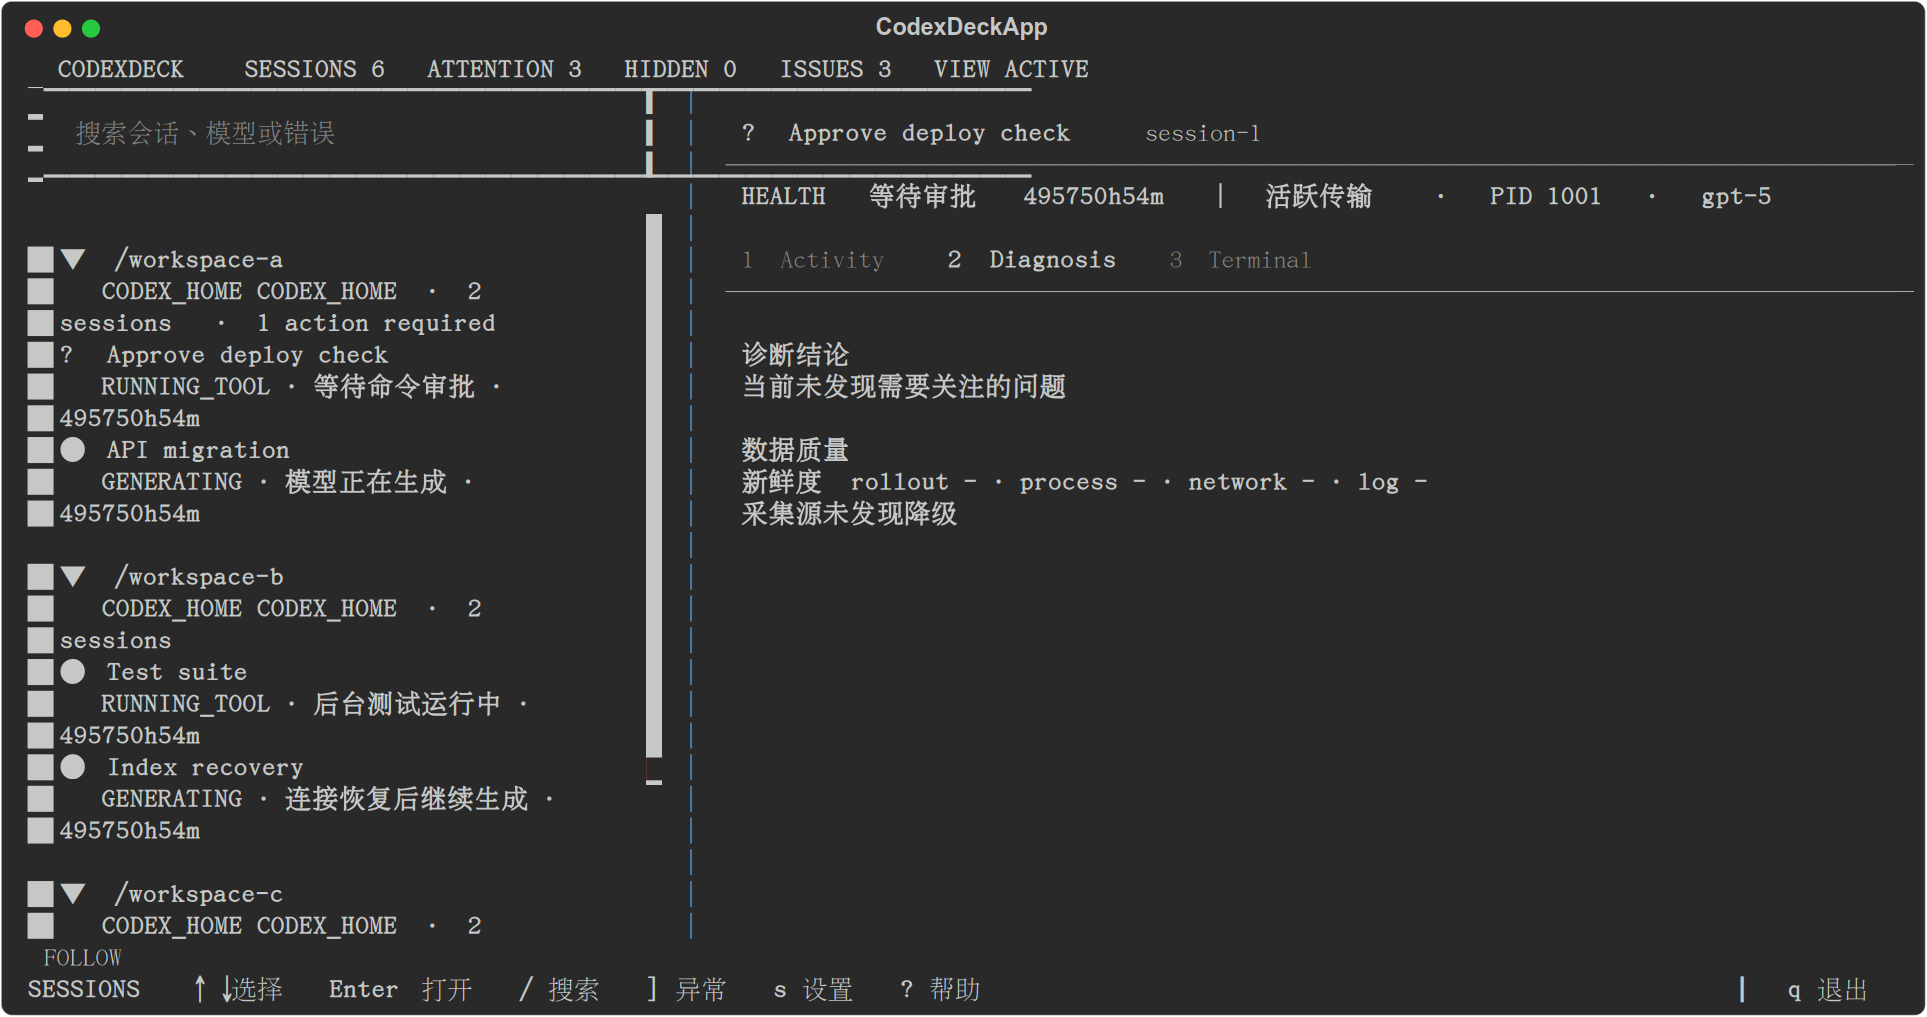
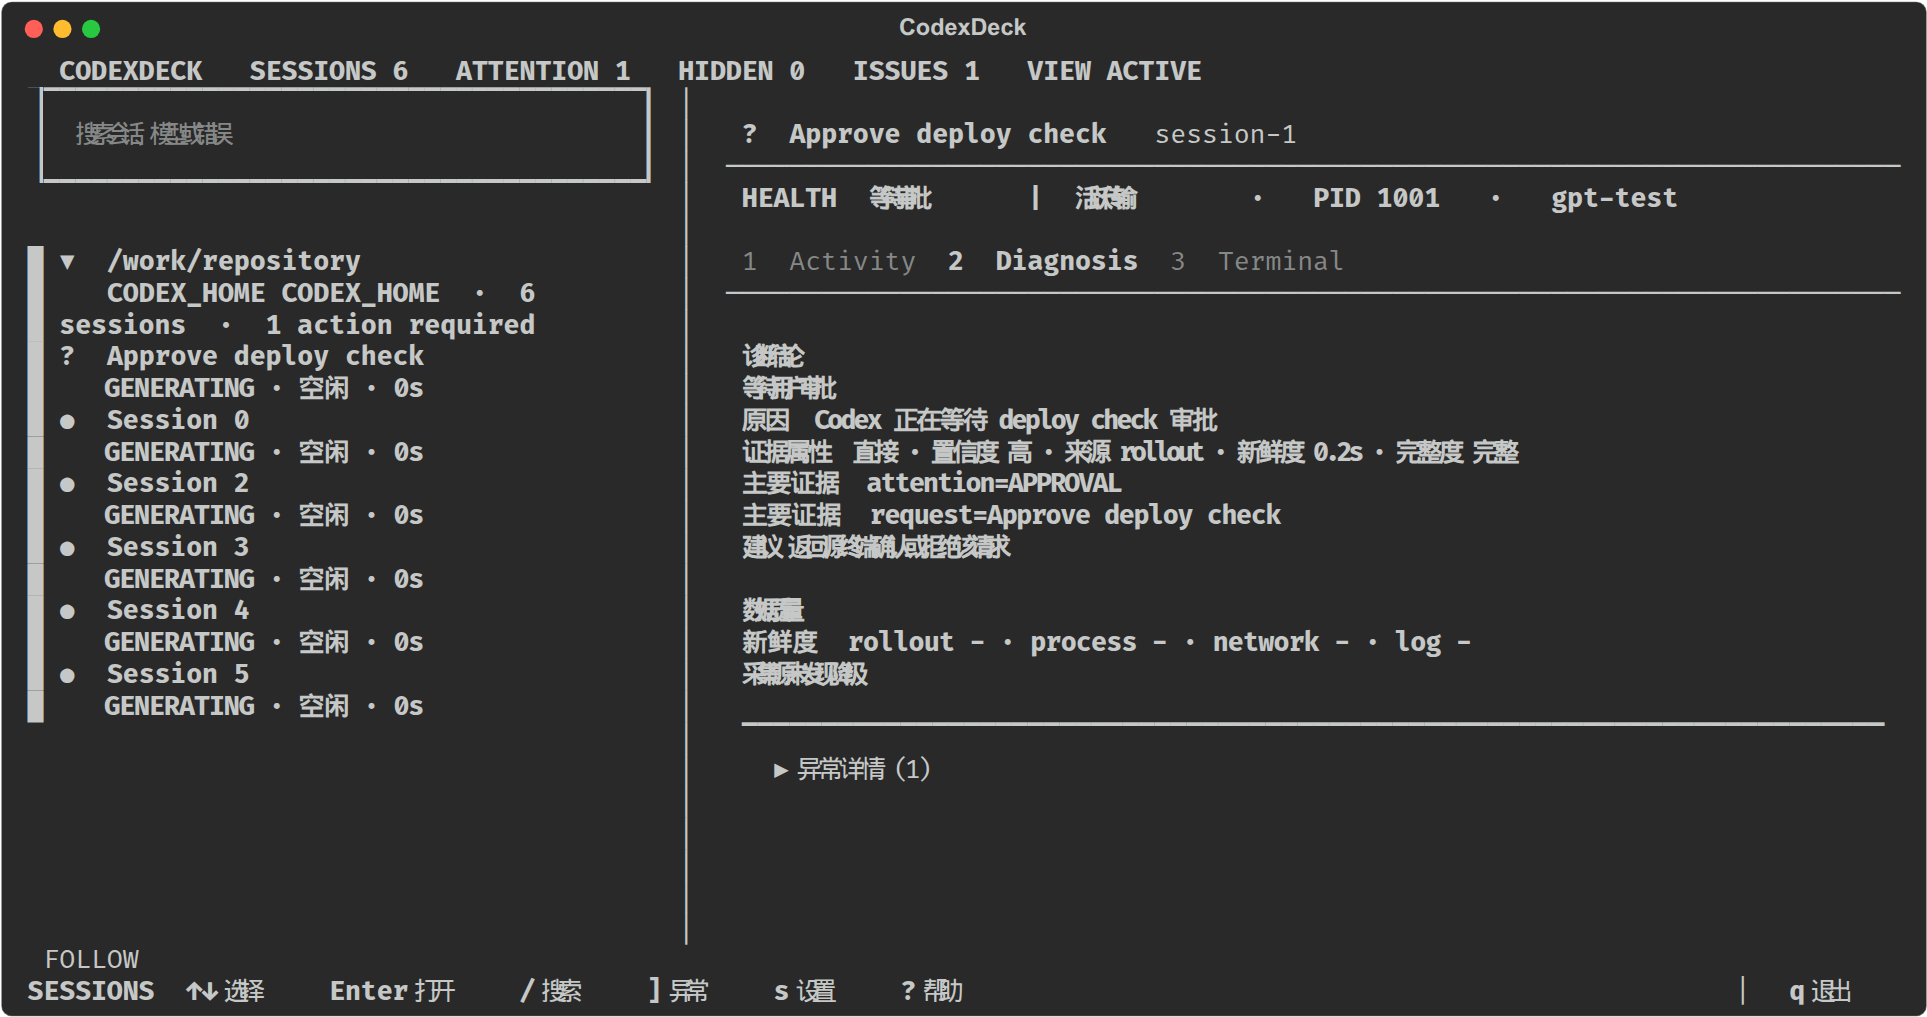
docs: converge product guidance and architecture

diff --git a/ARCHITECTURE.md b/ARCHITECTURE.md
@@ -1,0 +1,56 @@
+# CodexDeck architecture and ownership
+
+CodexDeck keeps collection, interpretation, publication, and presentation separate. The published
+`MonitorSnapshot` is the boundary: readers and stores remain mutable and bounded, while every value
+reachable from an older snapshot remains stable.
+
+## Runtime state ownership
+
+`src/engine_state.py` is the checked ownership registry for every field created by
+`MonitorEngine.__init__`. Each field has one owner, one lifecycle, and one publication rule.
+Collector-stage and fast-refresh mixins declare the state they consume; they do not create caches.
+`SnapshotPublisher` remains the only full-snapshot publisher.
+
+## Model layers
+
+`src/models.py` remains the stable import facade, but its values fall into four reviewed layers:
+
+1. **Domain identities and state:** instance/session/process/rollout/terminal/socket identities,
+   lifecycle, attention, recovery, silence, confidence, completeness, provenance.
+2. **Collector DTOs:** process, socket, thread, log, rollout activity and adapter health values.
+   These may be assembled incrementally and must be copied before publication.
+3. **Published contracts:** `SessionHealth`, `InstanceSnapshot`, `MonitorSnapshot`, temporal cut,
+   observer health, diagnostics and bounded terminal summaries.
+4. **Presentation projections:** navigation, attention queue and rendered text belong under
+   `src/presentation/`; they are derived from snapshots and do not write domain state.
+
+New presentation-only fields belong in a projection module rather than `models.py`. New collector
+fields enter a snapshot only through an explicit publisher or `replace()` copy-on-write step.
+
+`ProcessInfo` carries bounded collector evidence for source-terminal location (controlling TTY,
+tmux pane, terminal program and SSH TTY). `presentation/source_location.py` is the sole projection
+that interprets those values. Current cwd is not labeled as launch cwd, parent PID is only a clue,
+and absent evidence produces an explicit insufficient-clues result.
+
+| Candidate clue | Decision |
+| --- | --- |
+| PID / workspace / current cwd | Show; already authoritative process/workspace evidence |
+| Controlling TTY | Show when `ps` provides a concrete value |
+| Parent terminal | Do not assign separately; show parent PID and the child controlling TTY because the parent may have exited or changed |
+| tmux pane | Show only an explicit bounded `TMUX_PANE` value |
+| VS Code Remote / SSH | Label only explicit `TERM_PROGRAM=vscode` / `SSH_TTY` evidence |
+| Launch cwd | Do not claim; `/proc/PID/cwd` is the current cwd, not retained launch history |
+
+## Codex protocol boundaries
+
+- `codex/events.py`: rollout record-family normalization.
+- `codex/log_events.py`: supporting SQLite/SSE log families.
+- `codex/rollout.py`: bounded incremental reader orchestration.
+- `codex/rollout_types.py`: cursor lifecycle and read-result DTOs.
+- `codex/protocol_families.py`: bounded observed/unknown family counters.
+- `codex/terminal_protocol.py`: tool-call parsing and `TerminalUpdate` production.
+- `codex/terminal.py`: association, retention, reconciliation and summary publication.
+- `codex/file_tail.py`: regular-file eligibility, identity verification and tail reads.
+
+Protocol changes start with an anonymous compatibility fixture and production replay. Splits must
+preserve the same reader, normalizer, state-machine and TerminalStore path used in production.

diff --git a/docs/releases/v0.2.0.md b/docs/releases/v0.2.0.md
@@ -1,0 +1,39 @@
+# CodexDeck 0.2.0
+
+CodexDeck 0.2.0 将工具从多会话状态列表推进为证据驱动的只读运行态控制台。本版本重点提升
+快照一致性、会话与终端归属准确性、上游协议兼容能力，以及需要用户处理事项的发现效率。
+
+## 主要新增
+
+- 新增 Attention Queue，统一汇总审批、权限、用户输入、登录等待、当前失败、确认的网络停顿和
+  活跃会话观测盲区；TUI 顶部显示待处理数量，并可使用 `]` 快速跳转。
+- 新增匿名 rollout replay 框架，通过正式增量 reader、event normalization、状态机和 TerminalStore
+  重放协议 fixture，覆盖 partial line、未知 phase、后台 yield/poll 和完成关联。
+- 新增有界 incident summary 与 `export --current-incidents`，集中导出当前异常会话的事件、恢复结果、
+  provenance 和 evidence，且不包含 terminal transcript 正文。
+- history schema 增加 lifecycle、上游等待、attention wait、observer blind 和协议降级持续时间统计。
+- 增加本地长期运行基准，覆盖百万级 rollout、terminal 全局保留上限和 24 小时事件 churn。
+
+## 主要修复
+
+- 已发布 snapshot 不再被后续采样原地修改；没有可见变化时继续复用同一对象，有变化时发布新的
+  coherent snapshot，避免 TUI 错过刷新或跨采样读取混合状态。
+- 引入 instance、session、process、rollout、terminal 和 socket 复合 identity，避免 PID 复用、
+  多 Codex Home、重复 call ID 和并行连接造成错误归属。
+- long-running background job 的 initial exec 离开 rollout lookback 后，full sample 仍可通过只读进程
+  证据恢复 `METADATA_ONLY` terminal，同时排除 CodexDeck observer 子树和内部 Codex 进程。
+- rollout normalization 拆分为 attention、compaction、tool、collaboration、response item 和 event
+  message handlers；未知上游形状保留统计并在 doctor 中显示 compatibility 状态。
+- engine 将 discovery、socket 和 publication 阶段分离，TUI 使用独立 sampling coordinator 管理
+  100 ms fast refresh、2 秒 full sample 和单 worker 约束。
+- Terminal 页面继续保持只读，明确显示 capability、PID、command、cwd、状态、截断和 dropped bytes。
+
+## 安装
+
+```bash
+curl -fsSL \
+  https://raw.githubusercontent.com/Telecaster2147/CodexDeck/v0.2.0/install.sh \
+  -o /tmp/codexdeck-install.sh
+less /tmp/codexdeck-install.sh
+sh /tmp/codexdeck-install.sh
+```
